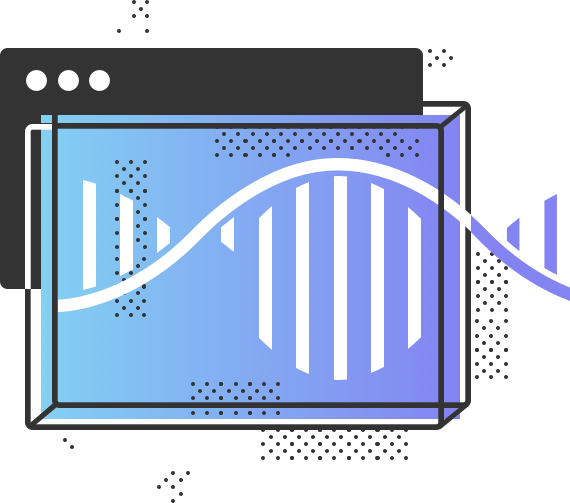
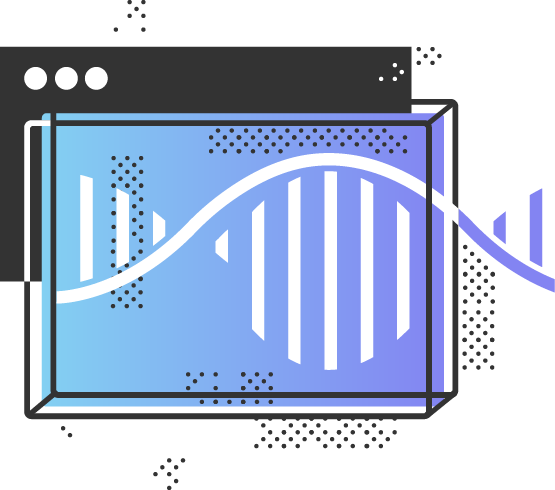
Image asset updates (#8)
* Update image assets.

* Remove unessesary script.

diff --git a/src/styles/components/_hero.scss b/src/styles/components/_hero.scss
@@ -1,4 +1,5 @@
-$hero-image-large: 490px;
+$hero-image-height-desktop: 490px;
+$hero-image-height-tablet: 440px;
 $hero-image-right-spacing: 0;
 $hero-image-top-spacing: 150px; // Ensure even spacing above the hero image to not intercept header text on smaller desktop.
 
@@ -24,11 +25,16 @@ $tablet-content-width: 520px;
     z-index: $z-index-1;
 
     @include mq($from: tablet) {
-      height: $hero-image-large;
-      margin: 0;
+      height: $hero-image-height-tablet;
+      margin: 16px 0;
       max-width: none;
       position: absolute;
       right: $hero-image-right-spacing;
+    }
+
+    @include mq($from: desktop) {
+      height: $hero-image-height-desktop;
+      margin: 0;
     }
   }
 }

diff --git a/src/styles/pages/_home.scss b/src/styles/pages/_home.scss
@@ -90,6 +90,10 @@
     align-self: flex-end;
     margin-bottom: 15px;
 
+    .h3 {
+      margin-bottom: 4px;
+    }
+
     @include mq($from: tablet) {
       grid-column: 1 / 5;
       grid-row: 1;
@@ -103,6 +107,7 @@
 
   &__link {
     align-self: flex-end;
+    max-width: 500px;
 
     @include mq($from: tablet) {
       grid-column: 1 / 4;

diff --git a/src/styles/layout/_header.scss b/src/styles/layout/_header.scss
@@ -3,6 +3,10 @@
   background-color: #fff;
   padding: $spacing-2 $spacing-2 0;
 
+  &__title {
+    font-size: 20px;
+  }
+
   &__inner {
     border: $main-content-border-width solid $dna-brand-grey-800;
     border-bottom: 0;
@@ -10,7 +14,7 @@
   }
 
   &__logo-img {
-    margin-right: 20px;
+    margin-right: 16px;
     width: 60px;
   }
 

diff --git a/src/styles/components/_quote-card.scss b/src/styles/components/_quote-card.scss
@@ -1,7 +1,8 @@
 .quote-card {
   background-color: $dna-brand-grey-800;
   border: 4px solid $dna-brand-grey-800;
-  margin-right: 32px;
+  margin: 0 32px 50px 0;
+  max-width: 500px;
   position: relative;
 
   @include mq($until: tablet) {

diff --git a/src/styles/layout/_main.scss b/src/styles/layout/_main.scss
@@ -6,7 +6,7 @@
 .wrapper {
   margin: 0 auto;
   max-width: $site-max-width;
-  padding: 0 16px;
+  padding: 0 8px;
   position: relative;
 
   @include mq($from: tablet) {

diff --git a/src/styles/components/_section.scss b/src/styles/components/_section.scss
@@ -6,4 +6,8 @@
   @include mq($from: tablet) {
     padding: 80px 0;
   }
+
+  @include mq($from: desktop) {
+    padding: 80px 0 128px 0;
+  }
 }
